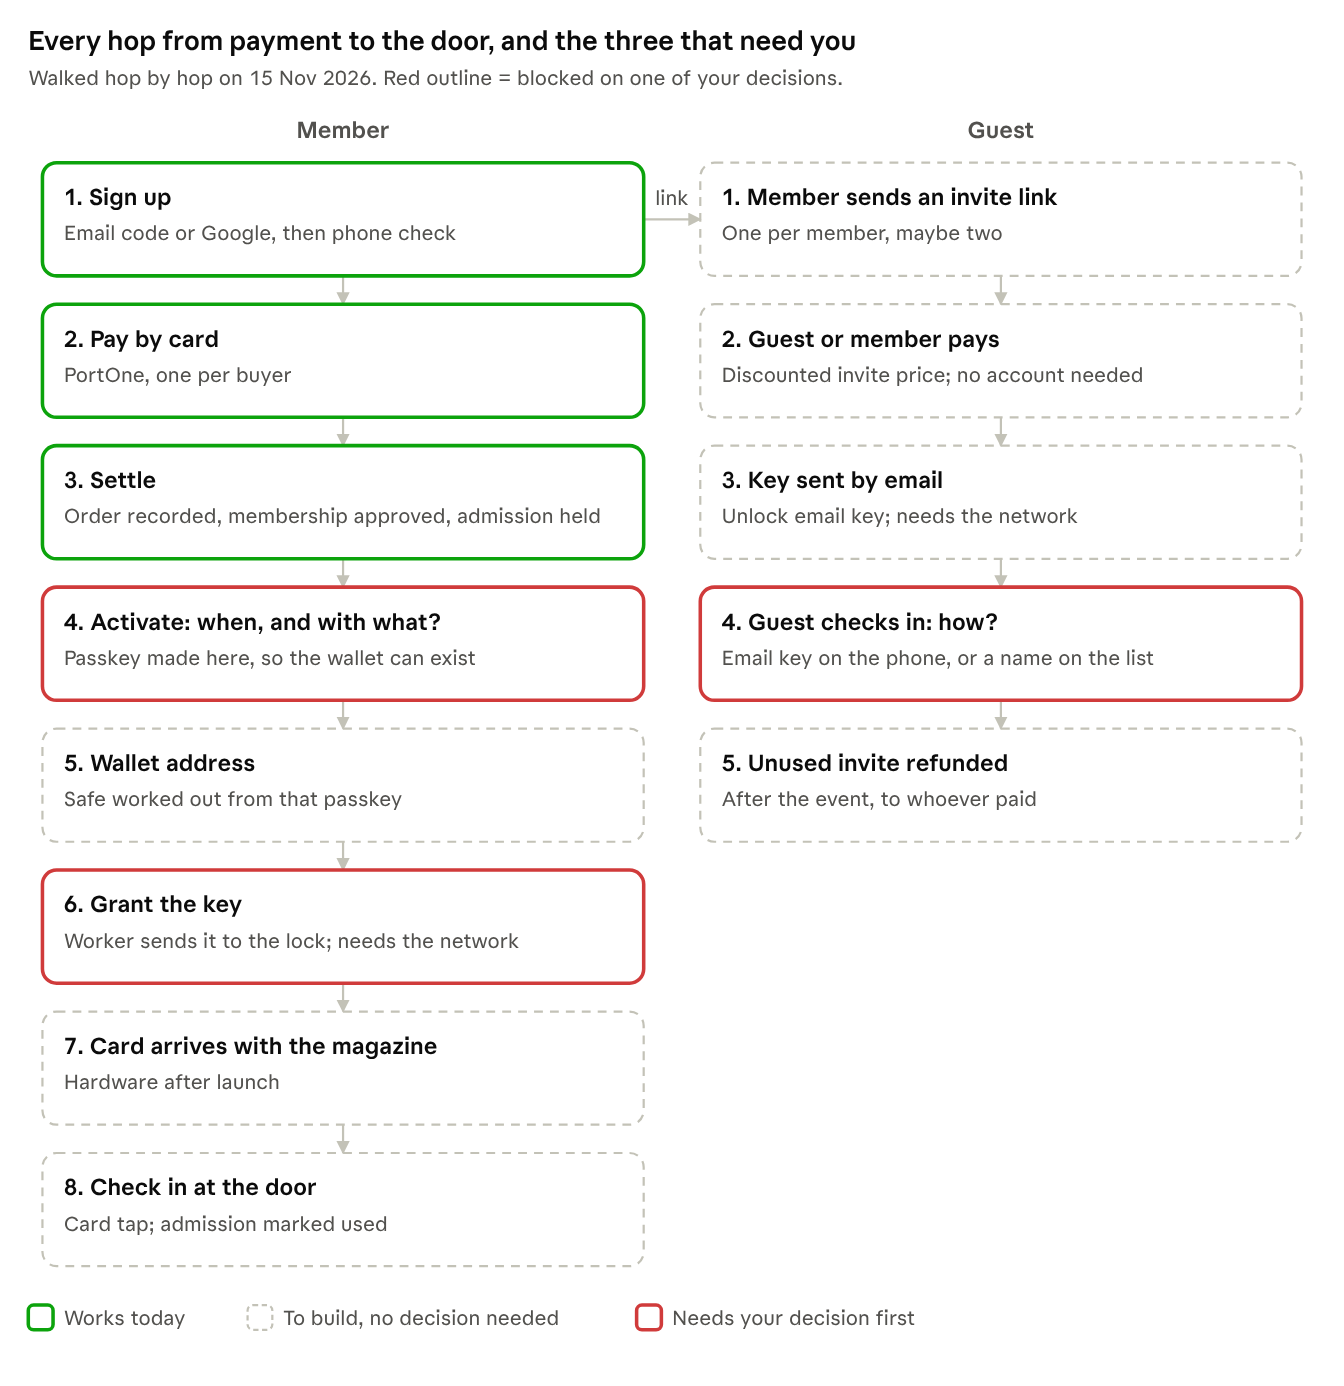
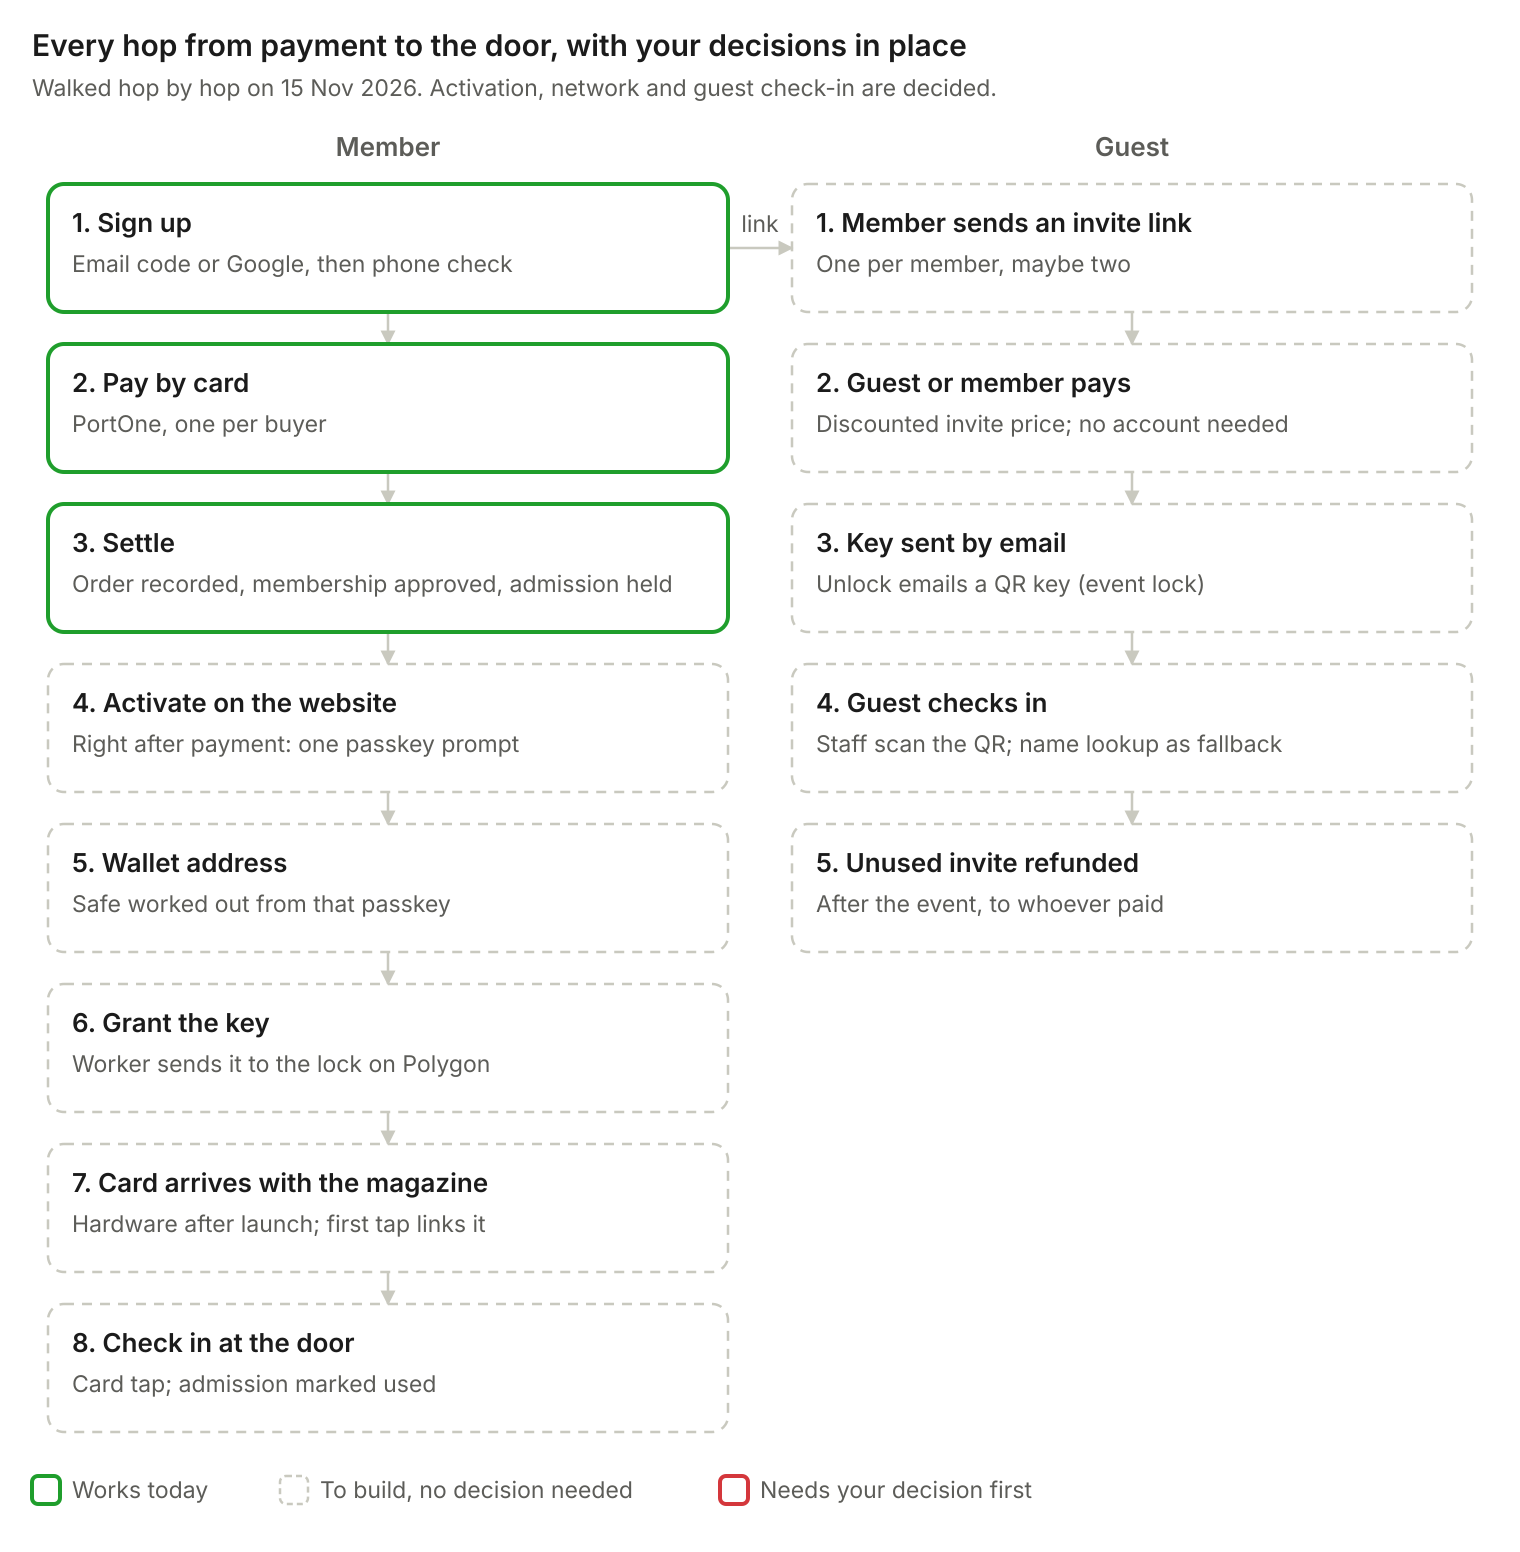
docs: repo plan replaces the retired live doc; custody to the Codex custodian (owner, 17 Nov)
- consolidation.md checked against the live doc's final state (Plan rev
  244, Rules rev 2, History rev 12): Plan and Rules matched; History's
  Sunday-launch block is brought up to the live wording. The header and
  the shared-copy rule now say this file is the plan.
- Both diagrams were stale (exported 15 Nov): saved their exact live
  sources as *.source.txt and re-rendered system-map.png and journeys.png
  from them.
- AGENTS.md: main's single owner and the plan's only writer is the Codex
  custodian (Orca terminal term_642185a9-...).
- Handoff: Codex is the only responsible session; sphmrs-08's and
  sphmrs-3a's handoffs exist alongside this one.

diff --git a/docs/qa/handoff-20261117/README.md b/docs/qa/handoff-20261117/README.md
@@ -1,18 +1,33 @@
 # Handoff to Codex, 2026-11-17
 
-From the Claude custodian session (Orca terminal `term_6ee8650f`, peer name `sphmrs-3b`). The owner asked Codex to take over. Read `AGENTS.md` first: every rule there still applies.
+From the Claude custodian session (Orca terminal `term_6ee8650f`, peer name `sphmrs-3b`), to the Codex custodian (Orca terminal `term_642185a9-49ca-4e6a-bbfc-ea09b39510fb`, `~/Projects/sphmrs`). Read `AGENTS.md` first: every rule there still applies.
 
-## 1. Ownership: needs the owner's word
+## 1. Ownership (owner, 17 Nov)
 
-- `AGENTS.md` names `term_6ee8650f` as the only session that commits, merges and pushes `main` in `~/Projects/sphmrs`, and the only writer of the live plan. That line has to change to name the Codex session before Codex writes `main`. The owner should confirm the new owner and its durable mailbox (`run:<id>` or `dispatch:<id>`).
-- **Live plan:** <https://claude.ai/artifact/Bt65UugGE56CBfTSRnXKkf>. It's a Claude Docs document with three tabs (Plan, Rules, History), and Codex cannot edit it. The repo copy `docs/qa/auth-payment-nfc/consolidation.md` (kept in step on `codex/auth-payment-nfc` and `main`) is the fallback. The owner decides whether the repo copy becomes the only plan or a Claude session keeps the live doc.
-- **`codex/auth-payment-nfc`:** owned by the auth custodian session `sphmrs-3a`, worktree `~/.codex/worktrees/main-history-integration/sphmrs`. Don't work in that worktree. Mechanism work goes on a worker branch cut from it, in your own worktree.
+- **You are now the only custodian.** The owner consolidated custody onto you, so you are the one session responsible for:
+  - `main`: commit, merge and push;
+  - the plan;
+  - `codex/nav-restore`.
+
+  `AGENTS.md` names your terminal from the same commit as this section. This Claude session stands down once you've confirmed receipt.
+- **This is not your only handoff.**
+  - `sphmrs-08`, another Claude session, told you directly that the custodian role was passing to you.
+  - `sphmrs-3a` has handed you the `/welcome` card design (§5).
+
+  Read them together. Where they disagree, a later, explicit owner decision wins; otherwise ask the owner.
+- **The plan is now only the repo copy:** `docs/qa/auth-payment-nfc/consolidation.md`.
+  - The owner retired the live Claude Docs plan on 17 Nov.
+  - The repo copy was checked against it that day and brought to its final state, diagrams included. The diagrams are `system-map.png` and `journeys.png`, each rendered from its exact source `*.source.txt`.
+  - The copy on `main` and the copy on `codex/auth-payment-nfc` must stay identical. The mechanism branch's copy needs this same sync (asked of `sphmrs-3a`).
+- **`codex/auth-payment-nfc`:** that branch's worktree, `~/.codex/worktrees/main-history-integration/sphmrs`, belongs to the live auth session `sphmrs-3a`.
+  - Don't work in that worktree. Mechanism work goes on a worker branch cut from it, in your own worktree.
+  - Merges into it go through `sphmrs-3a` while it is live.
 
 ## 2. State at handoff
 
 | Where | State |
 |---|---|
-| `main` | `ae81be4b`, pushed, in sync with origin. Dirty in the owner folder, not from this session, and left alone: modified `.gitignore`, untracked `docs/qa/resume-20261112/final-delivery/*`. |
+| `main` | Pushed and in sync with origin at handoff; this file and the plan sync are the last commits from `term_6ee8650f`. Dirty in the owner folder, not from this session, and left alone: modified `.gitignore`, untracked `docs/qa/resume-20261112/final-delivery/*`. |
 | `codex/auth-payment-nfc` | `ec88a2e9` on origin (the Korean copy slice, merged by `sphmrs-3a`). |
 | `codex/nav-restore` | Worktree `~/orca/workspaces/sphmrs/nav-restore`. 5 commits ahead of `main`, not merged; see §3. |
 | Local branch `codex/copy-pass-auth-20261117` | Merged into `origin/codex/auth-payment-nfc`. Its worktree is removed; the branch is still there because a hook blocked `git branch -D`. Safe to delete. |

diff --git a/docs/qa/auth-payment-nfc/consolidation.md b/docs/qa/auth-payment-nfc/consolidation.md
@@ -1,6 +1,6 @@
 # Auth · Payment · Unlock/NFC — one branch, one plan
 
-Live copy: https://claude.ai/artifact/Bt65UugGE56CBfTSRnXKkf · repo copy exported 2026-11-16 · the live copy and this file are kept in step by the custodian. The live doc has three tabs: Plan, Rules and History; this file holds all three in that order.
+This file is the plan. On 17 Nov the owner retired the live doc (https://claude.ai/artifact/Bt65UugGE56CBfTSRnXKkf); this copy was checked against it that day and matches its final state (revision 244 of Plan, 2 of Rules, 12 of History). It holds the live doc's three tabs in order: Plan, Rules and History. The two diagrams are `system-map.png` and `journeys.png`, rendered from their exact sources `system-map.source.txt` and `journeys.source.txt` in this folder.
 
 Nov 14, 2026 · @Sean
 
@@ -200,7 +200,7 @@ Parts that work stay. New parts are added around them, and nothing is replaced w
 
 There is one source of truth: this plan, and its decision ledger in particular. Both assistants read it, and only you change what counts as decided.
 
-1. **Shared copy.** After every change I export this document and both diagrams into the repo at `docs/qa/auth-payment-nfc/`, which Gemini in Antigravity can read. The live doc and the repo copy always match.
+1. **Shared copy.** This file is the plan, in the repo at `docs/qa/auth-payment-nfc/`, where every assistant can read it. The live doc was retired on 17 Nov; when a diagram changes, edit its `.source.txt` and re-render its PNG.
 2. **Gemini's ideas go to an inbox,** not straight into the plan. Save each session's output as a file in `docs/qa/auth-payment-nfc/inbox/`, one file per topic. Gemini can write it there itself.
 3. **I take in each inbox file** the same way as your own changes:
    - I note where it agrees with the ledger, where it conflicts, and what it would affect or break;
@@ -254,14 +254,10 @@ Ticked items, kept as they were answered. Their decisions also sit in *Your deci
 
 **Work order: done by Sunday, 15 Nov**
 
-Sunday needs only two slices here: sign-in on sophomores.co, and live card payment that grants membership. Everything else follows after launch, one slice at a time.
+Sunday needed only two slices: sign-in on sophomores.co, and live card payment that grants membership.
 
 1. **Sign-in on the real domain.** Registration and login accept `https://sophomores.co`, with secure cookies and a hosted database. Local development is unchanged. **Done:** merged into this branch on 2026-11-14 (`86b247d`). Shop checkout now accepts the real domain too. At deploy, the proxy must pass `https://sophomores.co` through as the request address.
-2. **Live card payment.**
-   - Test or live mode comes from config.
-   - One unit per purchase.
-   - Membership is approved inside the same transaction as the order.
-   - **Done:** merged on 2026-11-14. Still to check on the real site: the one-unit add and remove control, which needs a published product and a signed-in member.
+2. **Live card payment.** Test or live mode comes from config; one unit per purchase; membership is approved inside the same transaction as the order. **Done:** merged on 2026-11-14. Still to check on the real site: the one-unit add and remove control, which needs a published product and a signed-in member.
 3. **Merge both to `main`** after a light review, so the deploy carries them. Done: main is at dfb2e4c. Typecheck is clean, and the full suite shows only the 2 known styling failures.
 
 ## Your decisions so far

diff --git a/AGENTS.md b/AGENTS.md
@@ -80,7 +80,7 @@ This block is written and re-added by `next dev` — verify at `node_modules/nex
 
 ## One writer per checkout (owner rule, 2026-11-16)
 
-- **`main` has one owner session.** Only the session that owns the live plan commits, merges and pushes `main` in `~/Projects/sphmrs` (as of 2026-11-16, Orca terminal `term_6ee8650f`). Every other session sends it what it needs (a merge, a docs sync, a push) and does not commit to or push `main` itself. That session also stays the only writer of the live plan.
+- **`main` has one owner session.** Only the custodian session commits, merges and pushes `main` in `~/Projects/sphmrs` (as of 2026-11-17, the Codex custodian in Orca terminal `term_642185a9-49ca-4e6a-bbfc-ea09b39510fb`). Every other session sends it what it needs (a merge, a docs sync, a push) and does not commit to or push `main` itself. That session is also the only writer of the plan, `docs/qa/auth-payment-nfc/consolidation.md`; the live doc was retired on 2026-11-17.
 - **One session per worktree.** A worktree belongs to the live session working in it. Another session that needs changes there asks that owner, or works in its own worktree. Never edit, commit in, or start or stop a preview in a worktree another live session owns.
 - **Port 3000 and the browser are shared: take turns.** The preview's port comes from the sign-in origin (`scripts/member-auth-preview.ts`), so previews don't move to other ports. Before starting one, check who holds :3000 (`lsof -iTCP:3000 -sTCP:LISTEN`). If another session's preview holds it, ask that session; never stop it yourself. Only one session drives the DevTools browser at a time; close your pages when done.
 - **Send requests to a durable mailbox.** Use `run:<id>` or `dispatch:<id>`, not a bare terminal handle; terminal mail is lost when the terminal closes. A request that reaches the wrong session is forwarded to its owner, and the sender is told.
